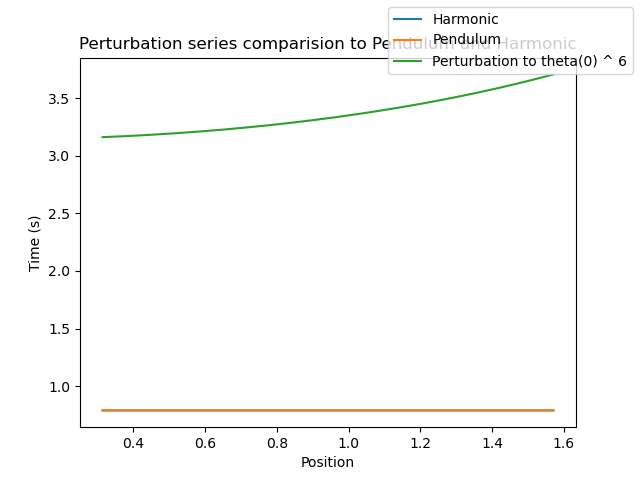
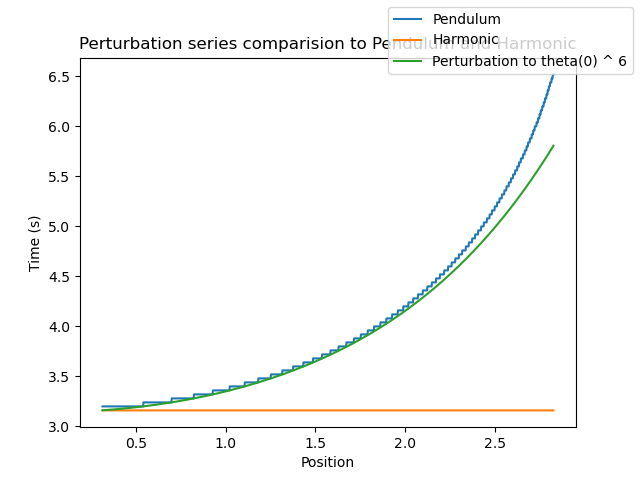
1.2 fixed and done

diff --git a/pendulum.py b/pendulum.py
@@ -270,7 +270,7 @@ def exercise_12():
     t_pendulum = []
     t_harmonic = []
     t_pertubation = []
-    theta0_12 = np.linspace(0.1*np.pi, 0.5*np.pi, 10000)
+    theta0_12 = np.linspace(0.1*np.pi, 0.9*np.pi, 1500)
 
     integrator = VerletIntegrator()
 
@@ -280,10 +280,11 @@ def exercise_12():
 
         while np.sign(osc12.theta)==1:
             integrator.integrate(simsystem=Harmonic(), osc=osc12, obs=obs12)
-        t_harmonic.append(osc12.t * 4)
+        t_harmonic.append(osc12.t*4)
 
 
         osc12_P = Oscillator(theta0=i)
+
         while np.sign(osc12_P.theta)==1:
             integrator.integrate(simsystem=Pendulum(), osc=osc12_P, obs=obs12)
         t_pendulum.append(osc12_P.t*4)
@@ -301,36 +302,6 @@ def exercise_12():
     plt.show()
 
 
-    '''
-    integrator = VerletIntegrator() #The best one, Energynconserving and more accurate than EulerCromer
-    theta0_vec = np.linspace(0.1 * np.pi, 0.5 * np.pi, 1500)
-    tau_harmonic, tau_pendulum, tau_perturbation = [], [], []
-
-    
-    for i in theta0_vec:
-        oscillator = Oscillator(theta0=i)
-        observer = Observables()
-
-        while np.sign(oscillator.theta) == 1:
-            integrator.integrate(simsystem = Harmonic(), osc=oscillator, obs=observer)
-        tau_harmonic.append(oscillator.t)
-
-        while np.sign(oscillator.theta) == 1:
-            integrator.integrate(simsystem=Pendulum(), osc=oscillator, obs=observer)
-        tau_pendulum.append(oscillator.t)
-
-        
-
-    plt.figure()
-    plt.plot(theta0_vec, tau_harmonic)
-    plt.plot(theta0_vec, tau_pendulum)
-    plt.plot(theta0_vec, tau_perturbation)
-    plt.title("Perturbation series comparision to Pendulum and Harmonic")
-    plt.figlegend(('Pendulum', 'Harmonic', 'Perturbation to theta(0) ^ 6'))
-    plt.xlabel('Position')
-    plt.ylabel('Time (s)')
-    plt.show()
-    '''
  
 def exercise_13():
     #TODO
